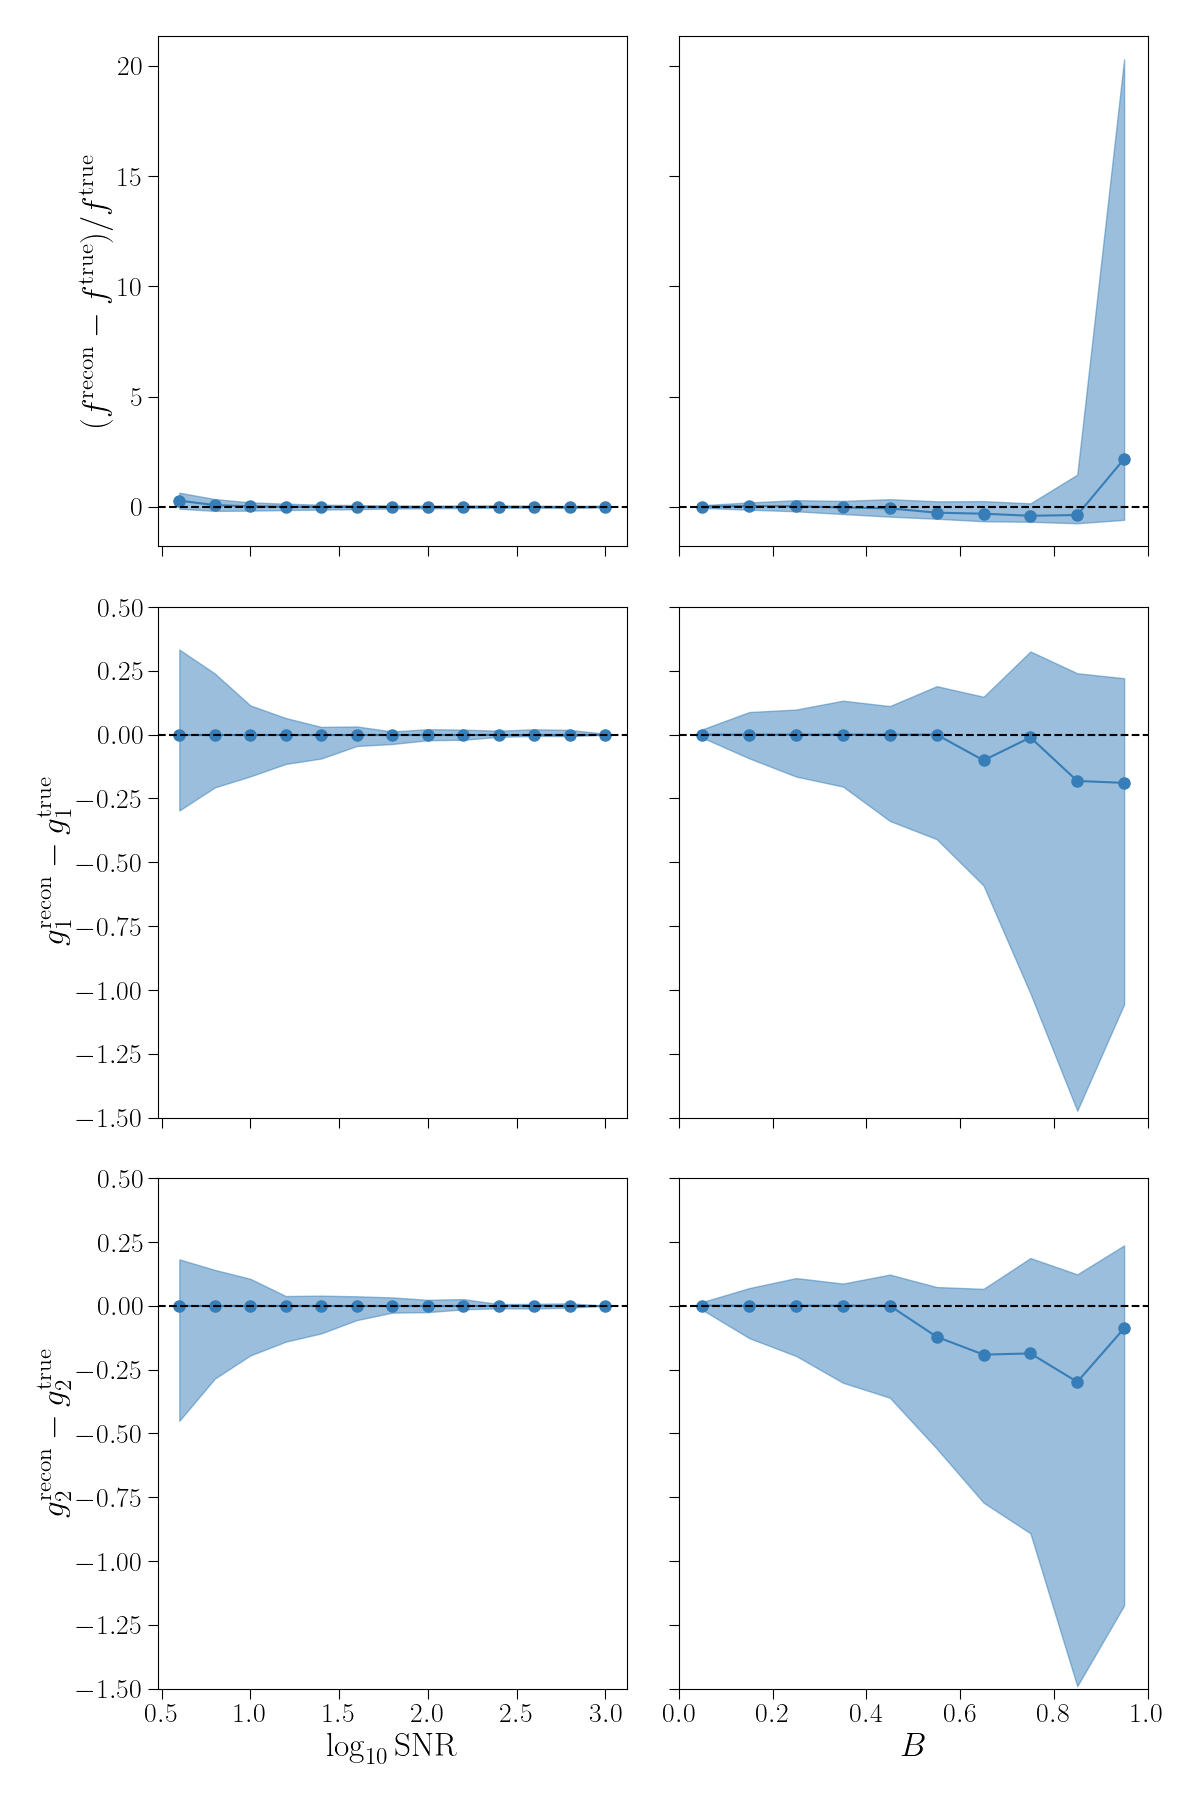
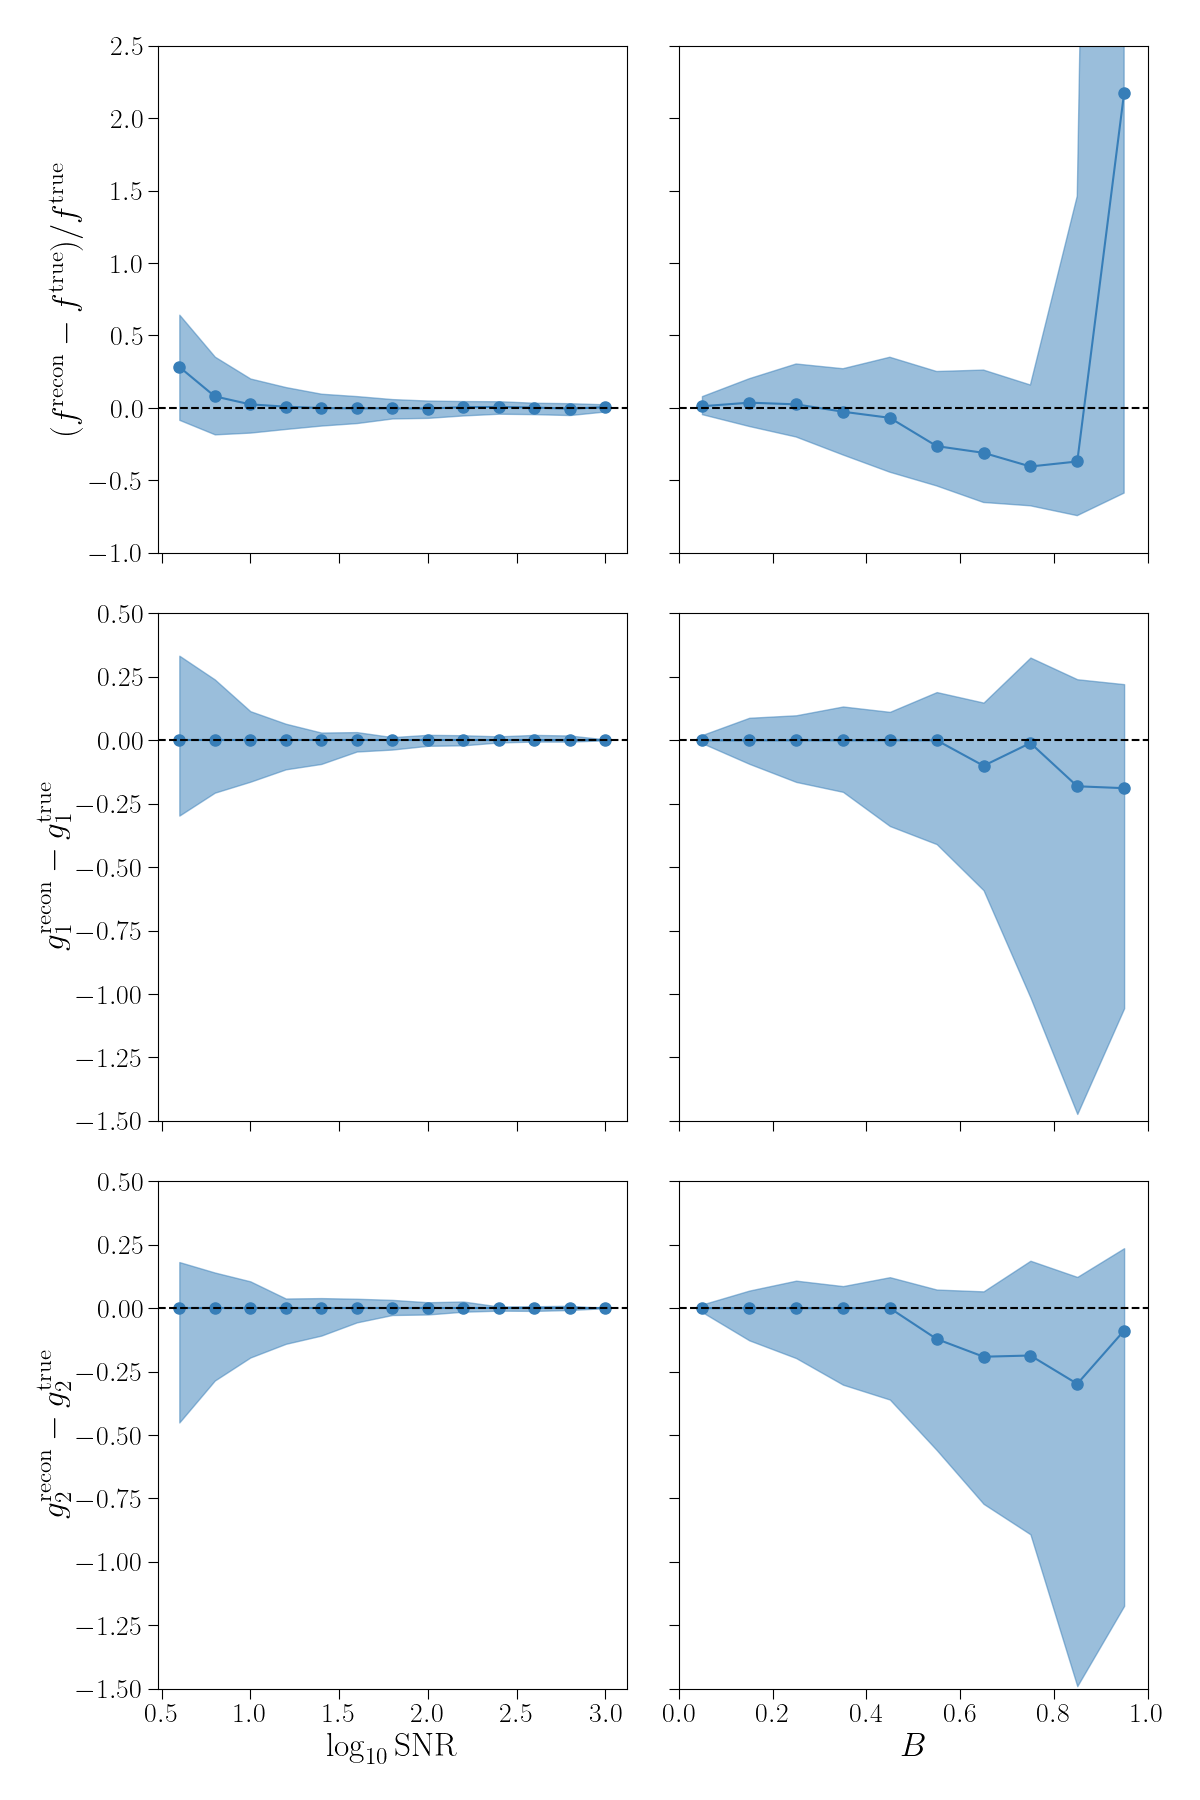
improve figures with gridlines

diff --git a/case_studies/galsim_galaxies/get_figures.py b/case_studies/galsim_galaxies/get_figures.py
@@ -118,6 +118,7 @@ def _make_pr_figure(
     ax2.set_xlabel(xlabel)
     ax2.set_ylabel(rf"\rm {metric_type} Metric")
     ax2.set_yticks(yticks)
+    ax2.grid(linestyle="-", linewidth=0.5, which="major", axis="both")
 
     if xlims is not None:
         ax2.set_xlim(xlims)
@@ -138,6 +139,7 @@ def _make_pr_figure(
     ax1.set_yticks(yticks)
     ax1.set_ylabel(r"\rm Counts")
     ax1.legend(loc="best", prop={"size": legend_size_hist})
+    ax1.grid(linestyle="-", linewidth=0.5, which="major", axis="both")
     plt.subplots_adjust(hspace=0)
     return fig
 
@@ -475,11 +477,13 @@ class BlendResidualFigure(BlissFigure):
         scatter_shade_plot(ax1, x, y, xlims, delta=0.2)
         ax1.set_ylabel(ylabel)
         ax1.axhline(0, ls="--", color="k")
+        ax1.set_ylim(-1, 2.5)
 
         xlims = (0, 1)
         x, y = blendedness, (efluxes - tfluxes) / tfluxes
         scatter_shade_plot(ax2, x, y, xlims, delta=0.1)
         ax2.axhline(0, ls="--", color="k")
+        ax2.set_ylim(-1, 2.5)
 
         xlims = (0.5, 3)
         ylabel = r"$g_{1}^{\rm recon} - g_{1}^{\rm true}$"
